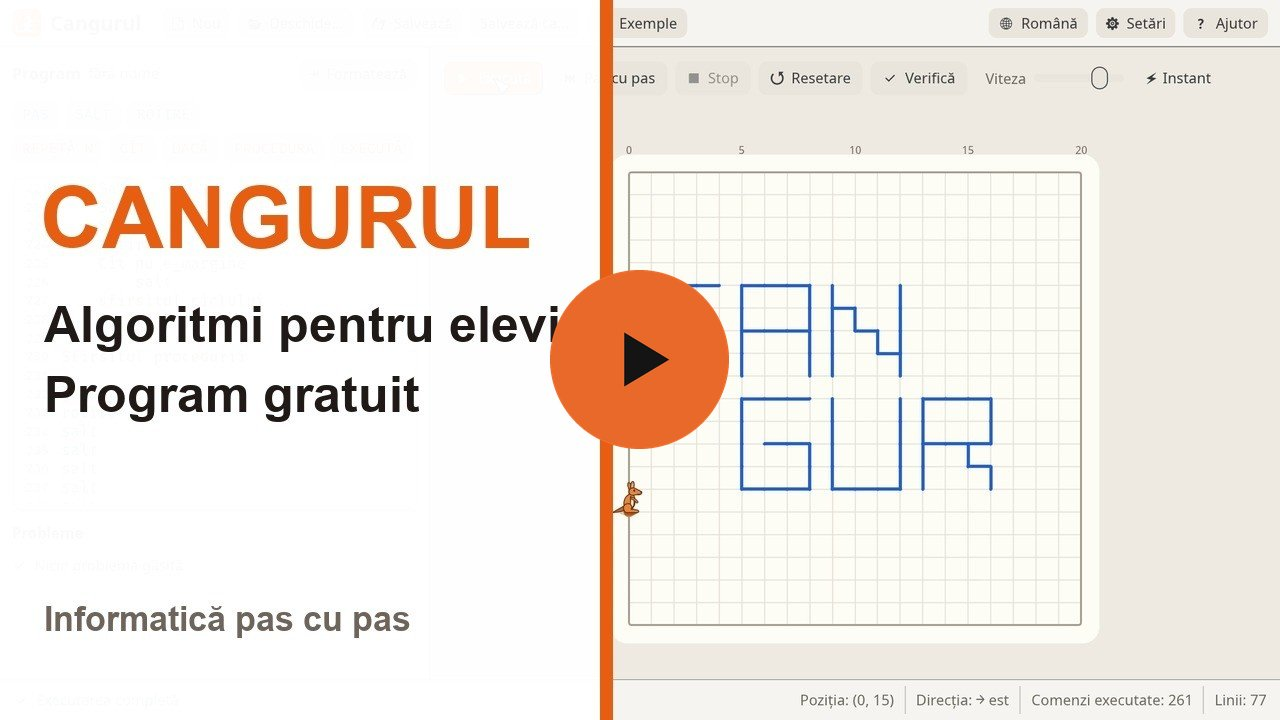
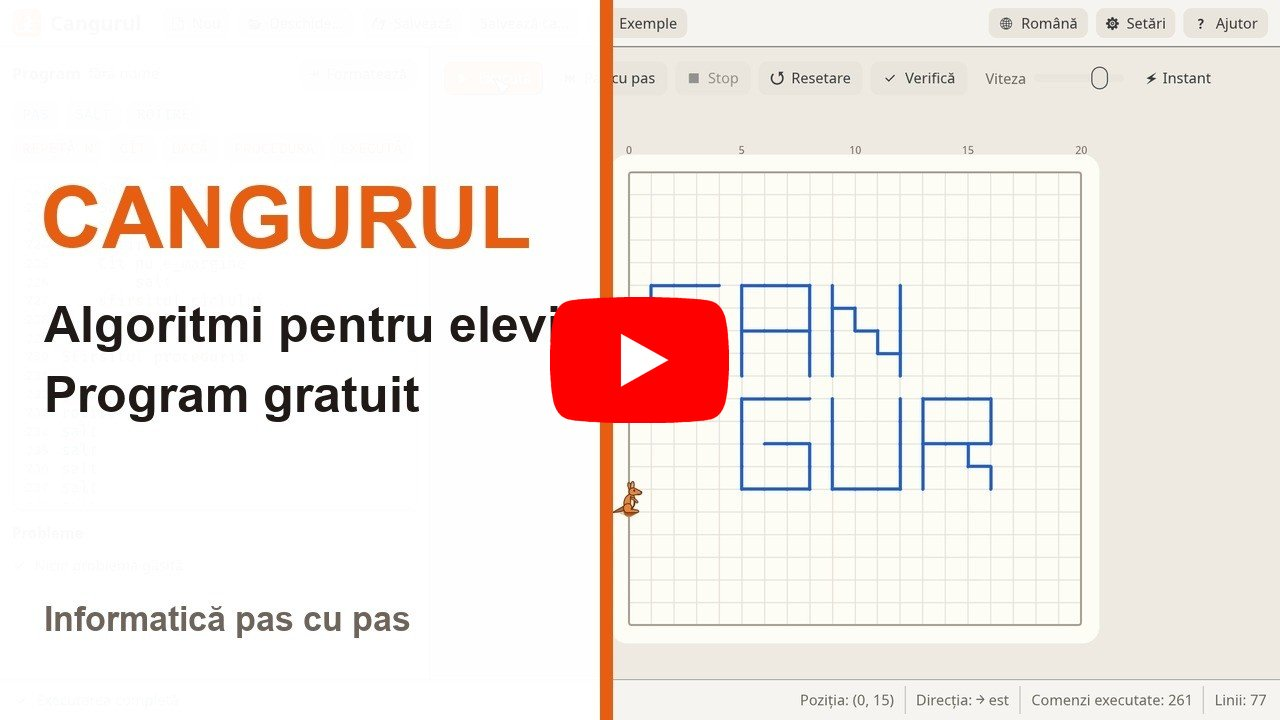
Videoclipul: butonul de pe imagine e iconița YouTube, pe pagină și în README

Changed region(s): [[0.4062, 0.3667, 0.5938, 0.6417]]

diff --git a/site/assets/style.css b/site/assets/style.css
@@ -183,31 +183,18 @@ p { margin: 0; }
 }
 a.video img { width: 100%; height: 100%; object-fit: cover; }
 .play {
+  /* Butonul YouTube: arată de unde e videoclipul. */
   position: absolute;
   top: 50%;
   left: 50%;
-  width: clamp(64px, 9vw, 96px);
-  aspect-ratio: 1;
-  border-radius: 50%;
-  background: var(--accent);
+  width: clamp(68px, 9vw, 96px);
+  height: auto;
   transform: translate(-50%, -50%);
-  transition: transform 160ms var(--ease-out), background-color 160ms ease;
-}
-.play::after {
-  /* Triunghiul, puțin spre dreapta ca să pară centrat. */
-  content: "";
-  position: absolute;
-  top: 50%;
-  left: 54%;
-  border-style: solid;
-  border-width: 0.6em 0 0.6em 1em;
-  border-color: transparent transparent transparent var(--ink);
-  font-size: clamp(16px, 2.2vw, 24px);
-  transform: translate(-50%, -50%);
+  transition: transform 160ms var(--ease-out);
 }
 a.video:active .play { transform: translate(-50%, -50%) scale(0.95); }
 @media (hover: hover) and (pointer: fine) {
-  a.video:hover .play { background: var(--accent-press); transform: translate(-50%, -50%) scale(1.06); }
+  a.video:hover .play { transform: translate(-50%, -50%) scale(1.08); }
 }
 
 /* Față de Cangurul 2 */

diff --git a/site/template.html b/site/template.html
@@ -67,7 +67,7 @@
         <figure id="video" class="hero-video">
           <a class="video" href="https://www.youtube.com/watch?v=5MZtBTeV5G8" target="_blank" rel="noopener" aria-label="{{ video_play }}">
             <img src="{{ root }}assets/video.jpg" width="1280" height="720" alt="">
-            <span class="play" aria-hidden="true"></span>
+            <svg class="play" viewBox="0 0 68 48" width="68" height="48" aria-hidden="true"><path d="M66.52 7.74c-.78-2.93-2.49-5.41-5.42-6.19C55.79.13 34 0 34 0S12.21.13 6.9 1.55C3.97 2.33 2.27 4.81 1.48 7.74.06 13.05 0 24 0 24s.06 10.95 1.48 16.26c.78 2.93 2.49 5.41 5.42 6.19C12.21 47.87 34 48 34 48s21.79-.13 27.1-1.55c2.93-.78 4.64-3.26 5.42-6.19C67.94 34.95 68 24 68 24s-.06-10.95-1.48-16.26z" fill="#f00"/><path d="M45 24 27 14v20z" fill="#fff"/></svg>
           </a>
           <figcaption>{{{ video_lead }}}</figcaption>
         </figure>
